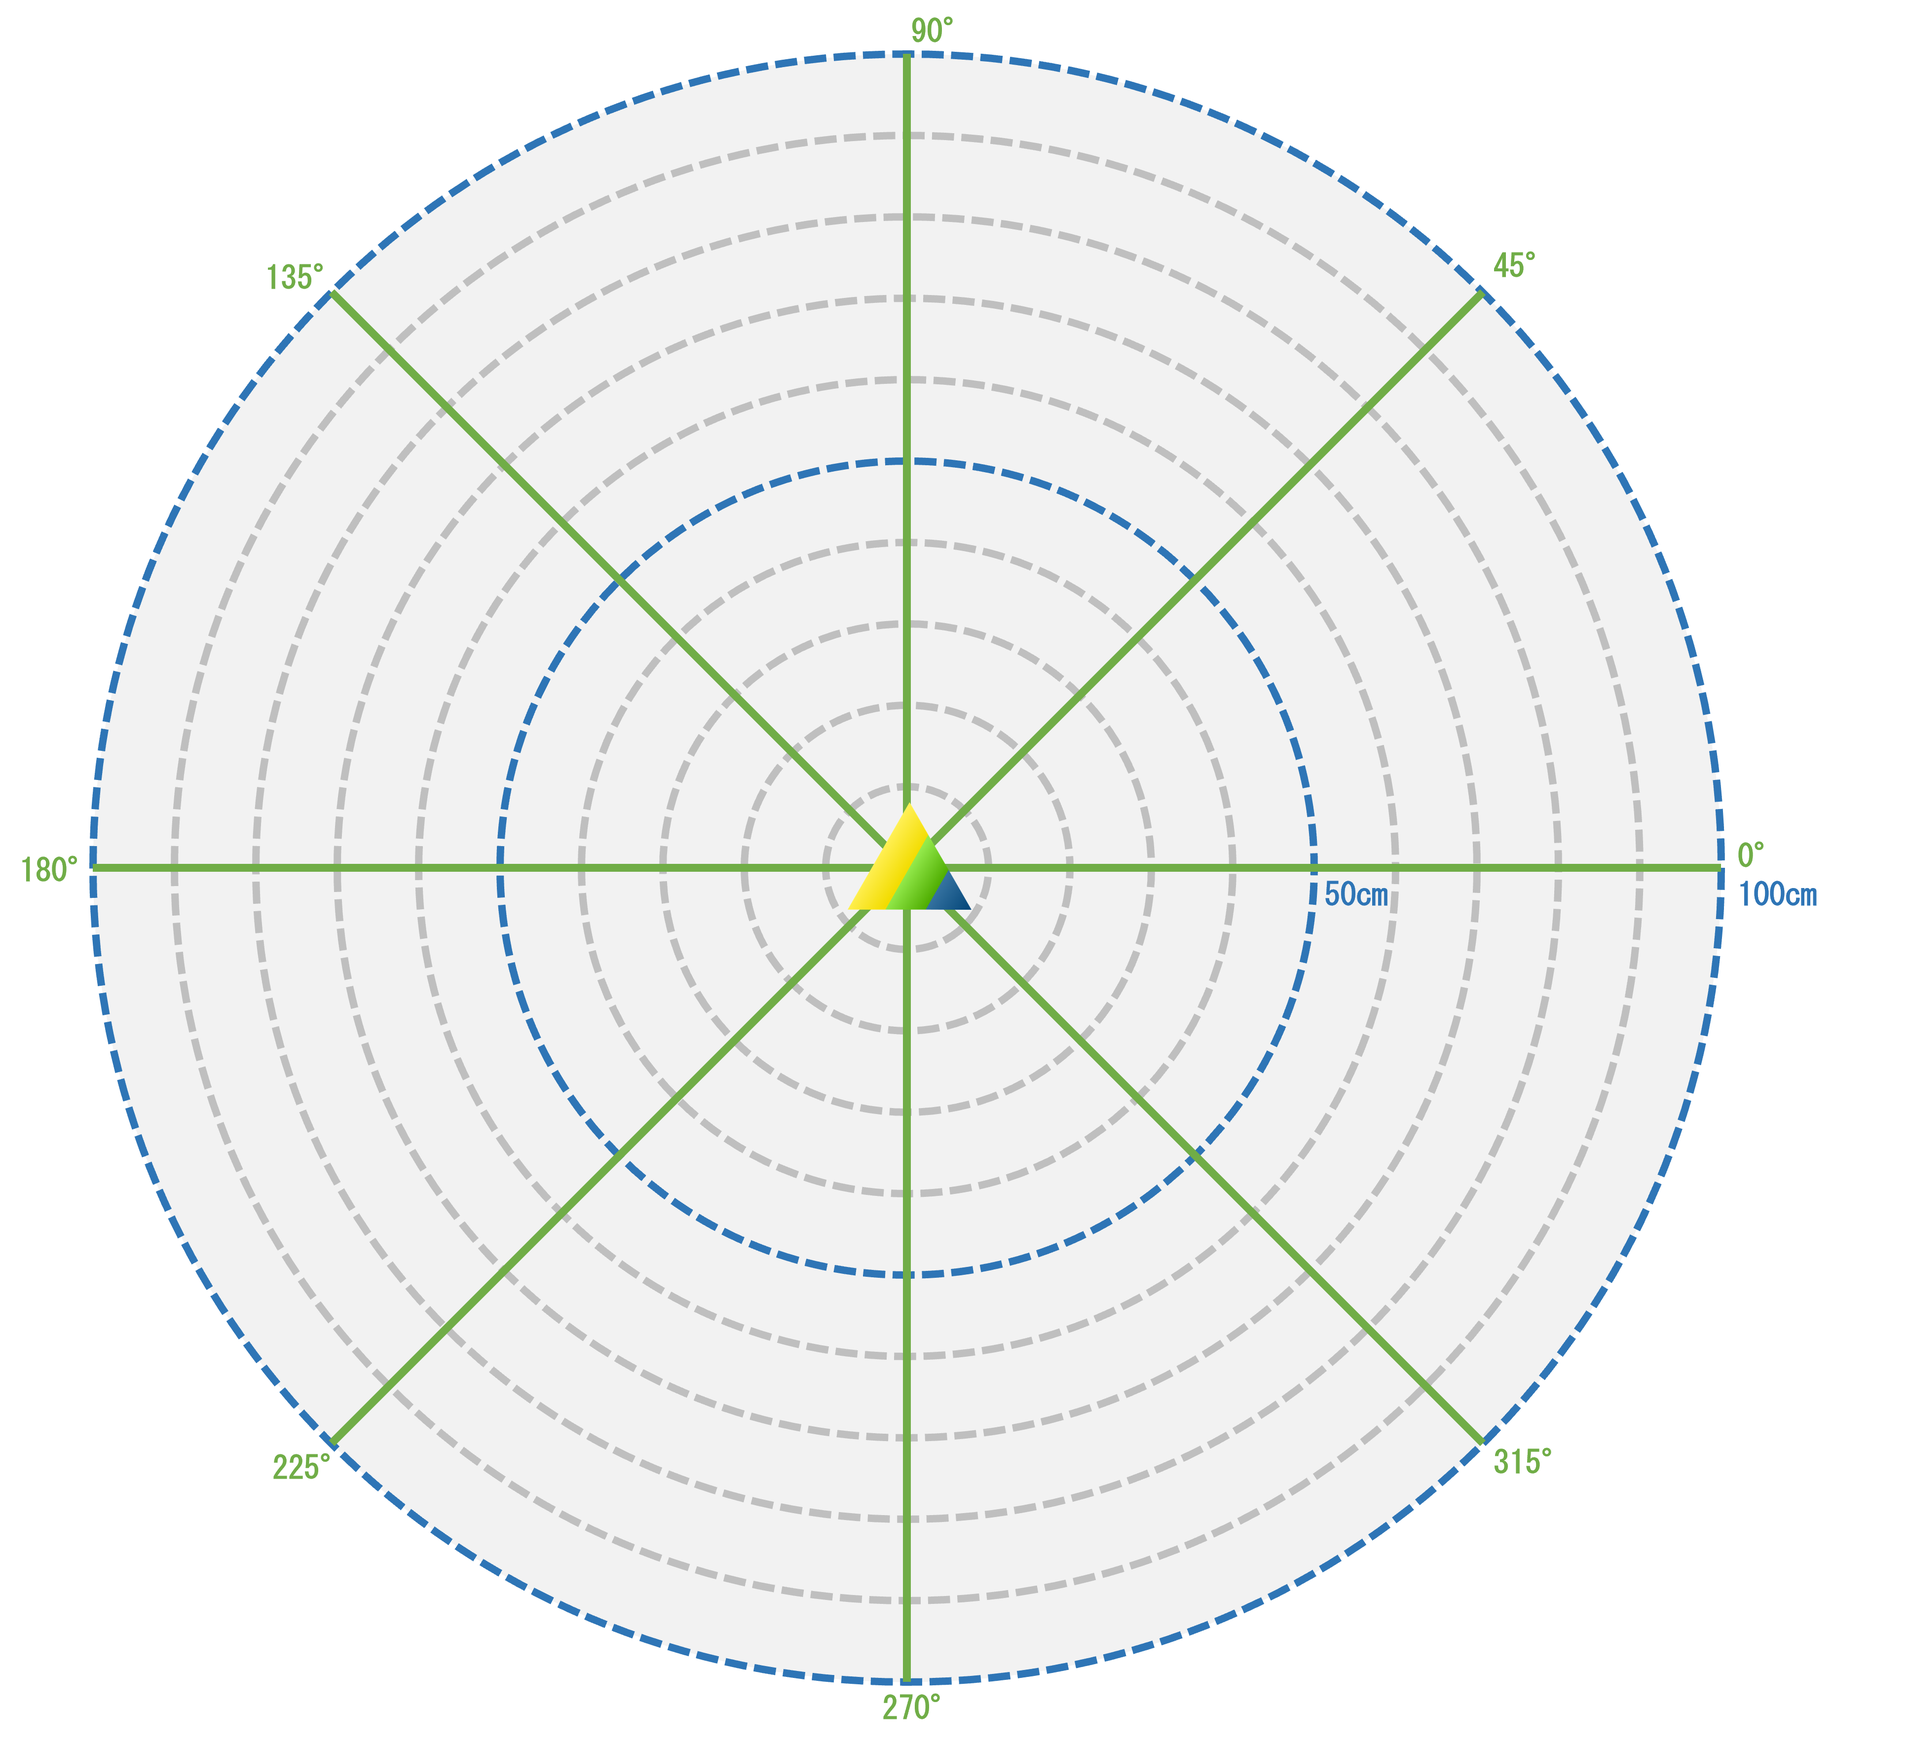
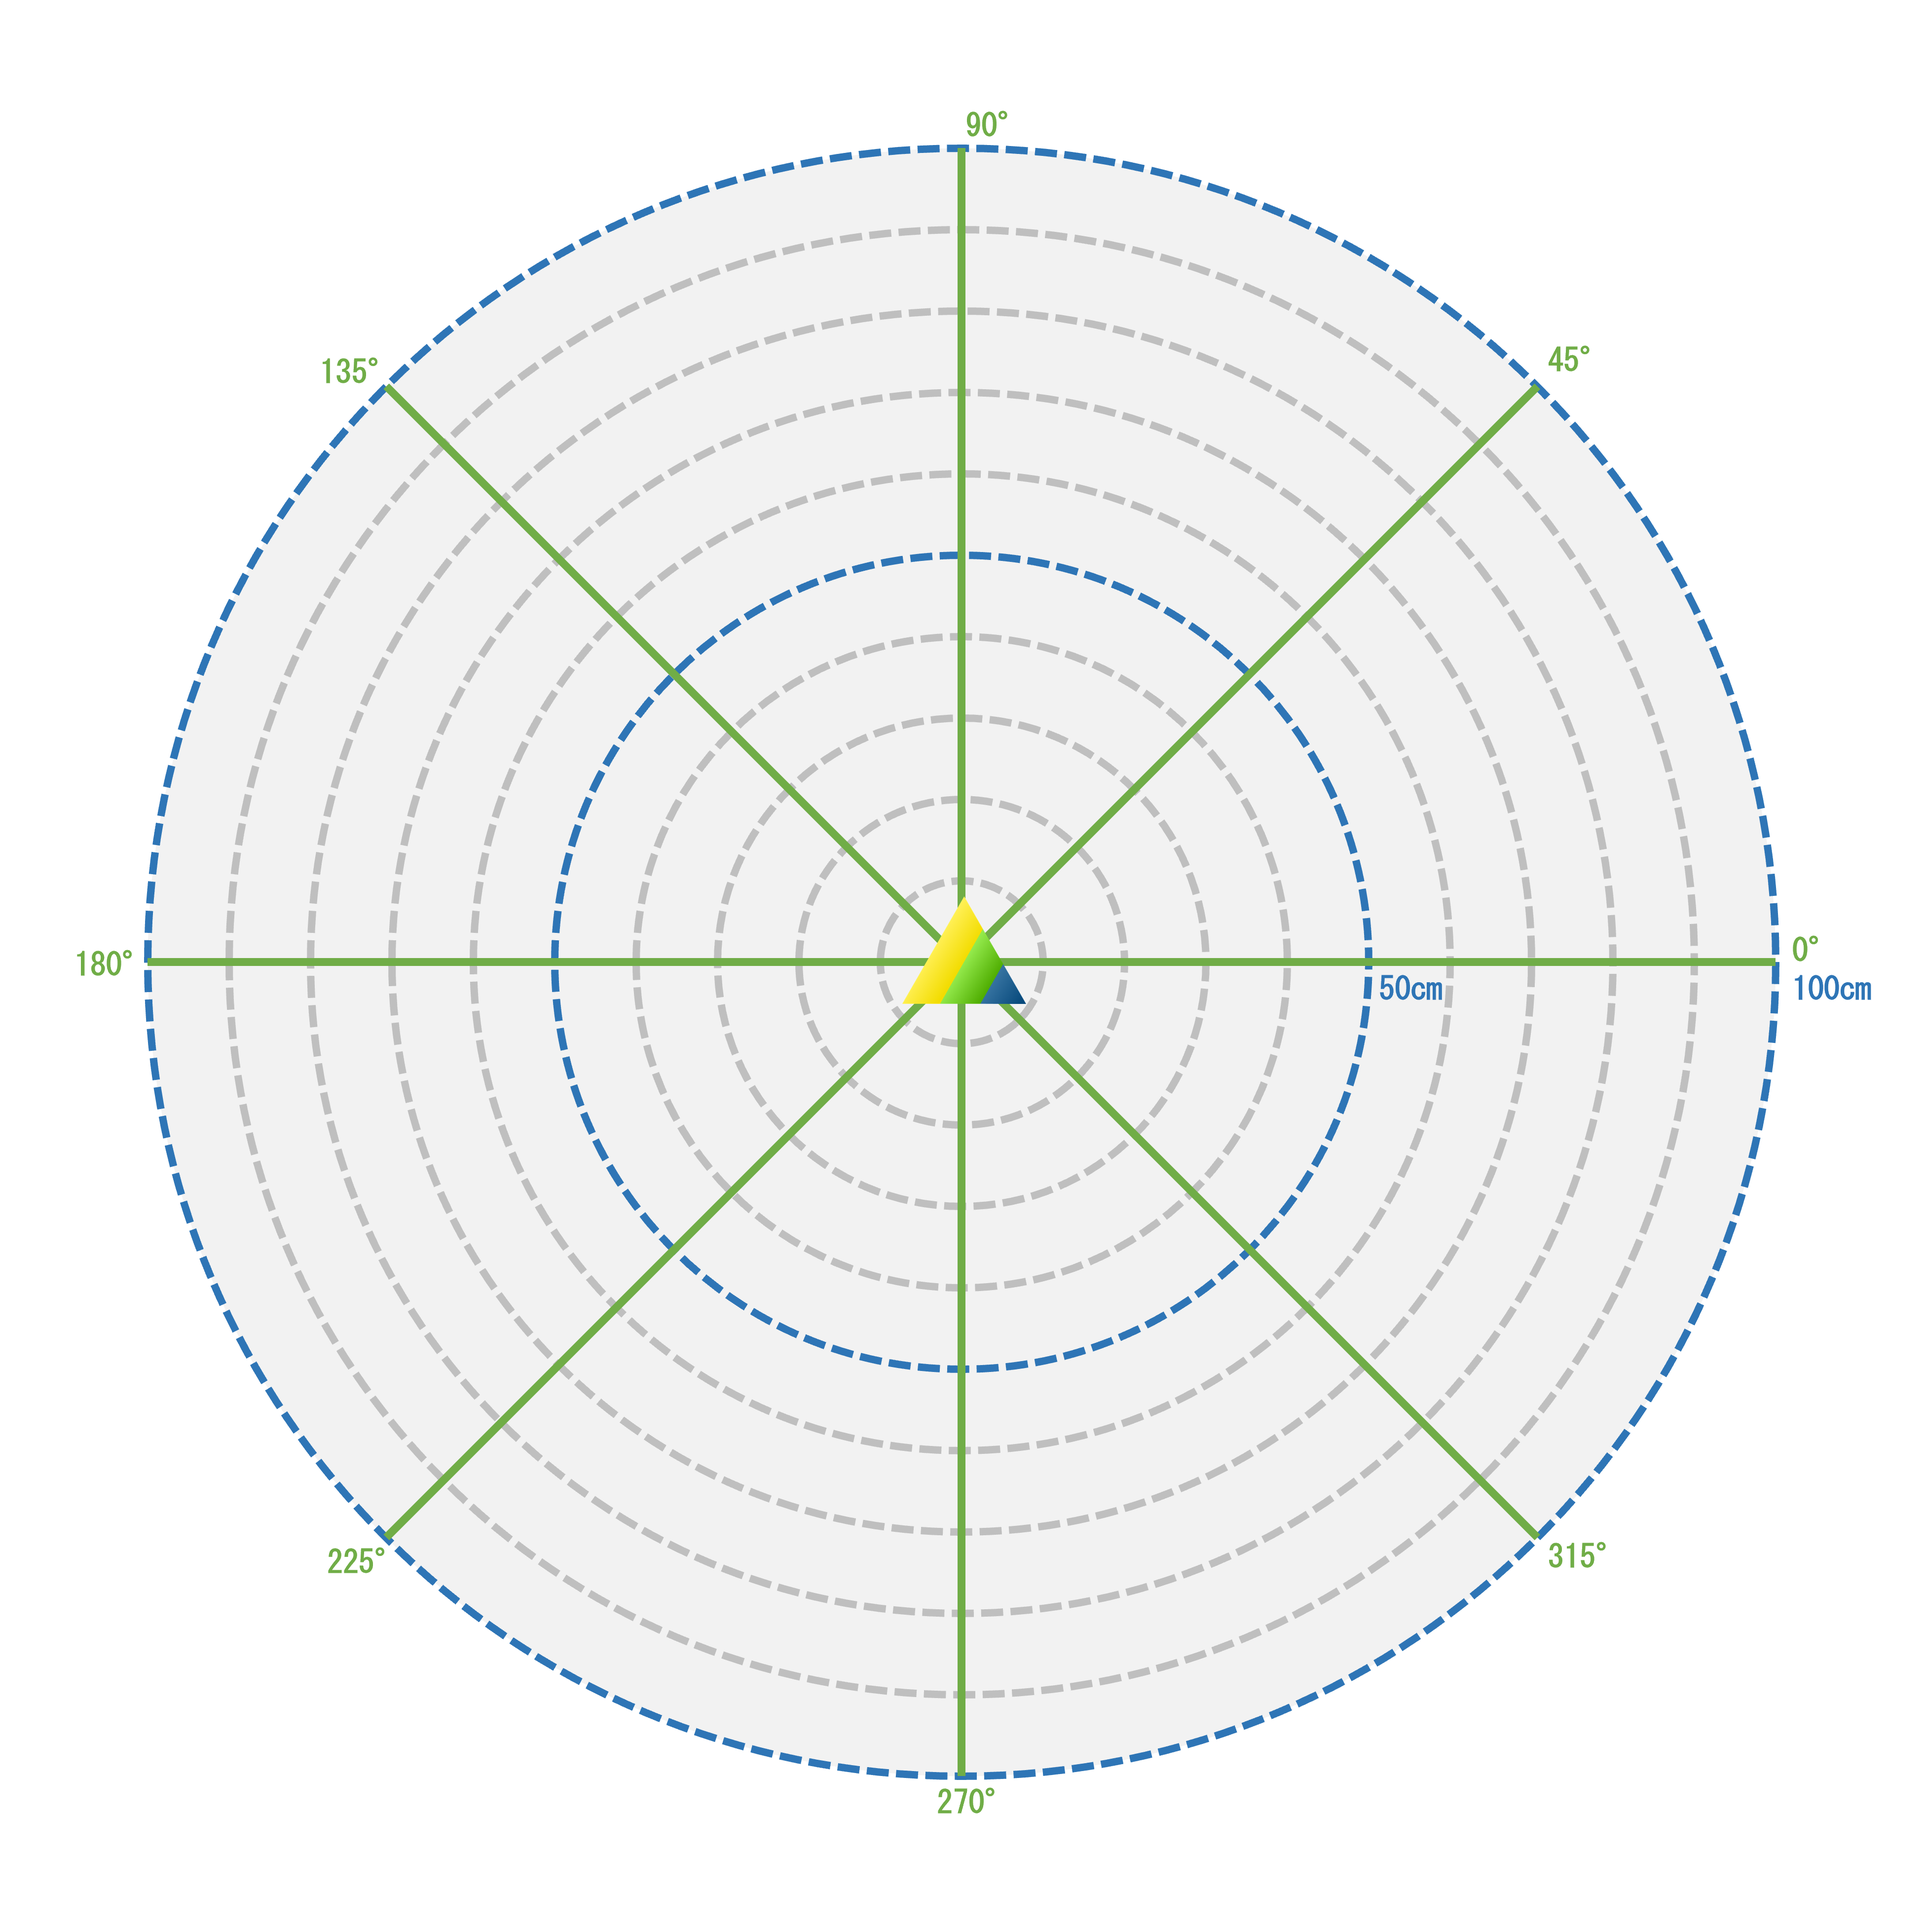
newfield

diff --git a/draw_gz.js b/draw_gz.js
@@ -16,8 +16,8 @@ function drawShape(coords) {
     ctx.drawImage(img, x, y, img.width * scale, img.height * scale);
 
 
-    var x_ee = Math.cos(pos[0]*Math.PI/180.0)*pos[1]*(canvas.width / 2*0.745) +canvas.width / 2;
-    var y_ee = -Math.sin(pos[0]*Math.PI/180.0)*pos[1]*(canvas.height / 2*0.86) +canvas.height / 2;
+    var x_ee = Math.cos(pos[0]*Math.PI/180.0)*pos[1]*(canvas.width / 2*0.84615384615) +canvas.width / 2;
+    var y_ee = -Math.sin(pos[0]*Math.PI/180.0)*pos[1]*(canvas.height / 2*0.84615384615) +canvas.height / 2;
     // Draw shapes
     ctx.beginPath();
     ctx.arc(x_ee, y_ee, 6, 0, 2 * Math.PI, false);
